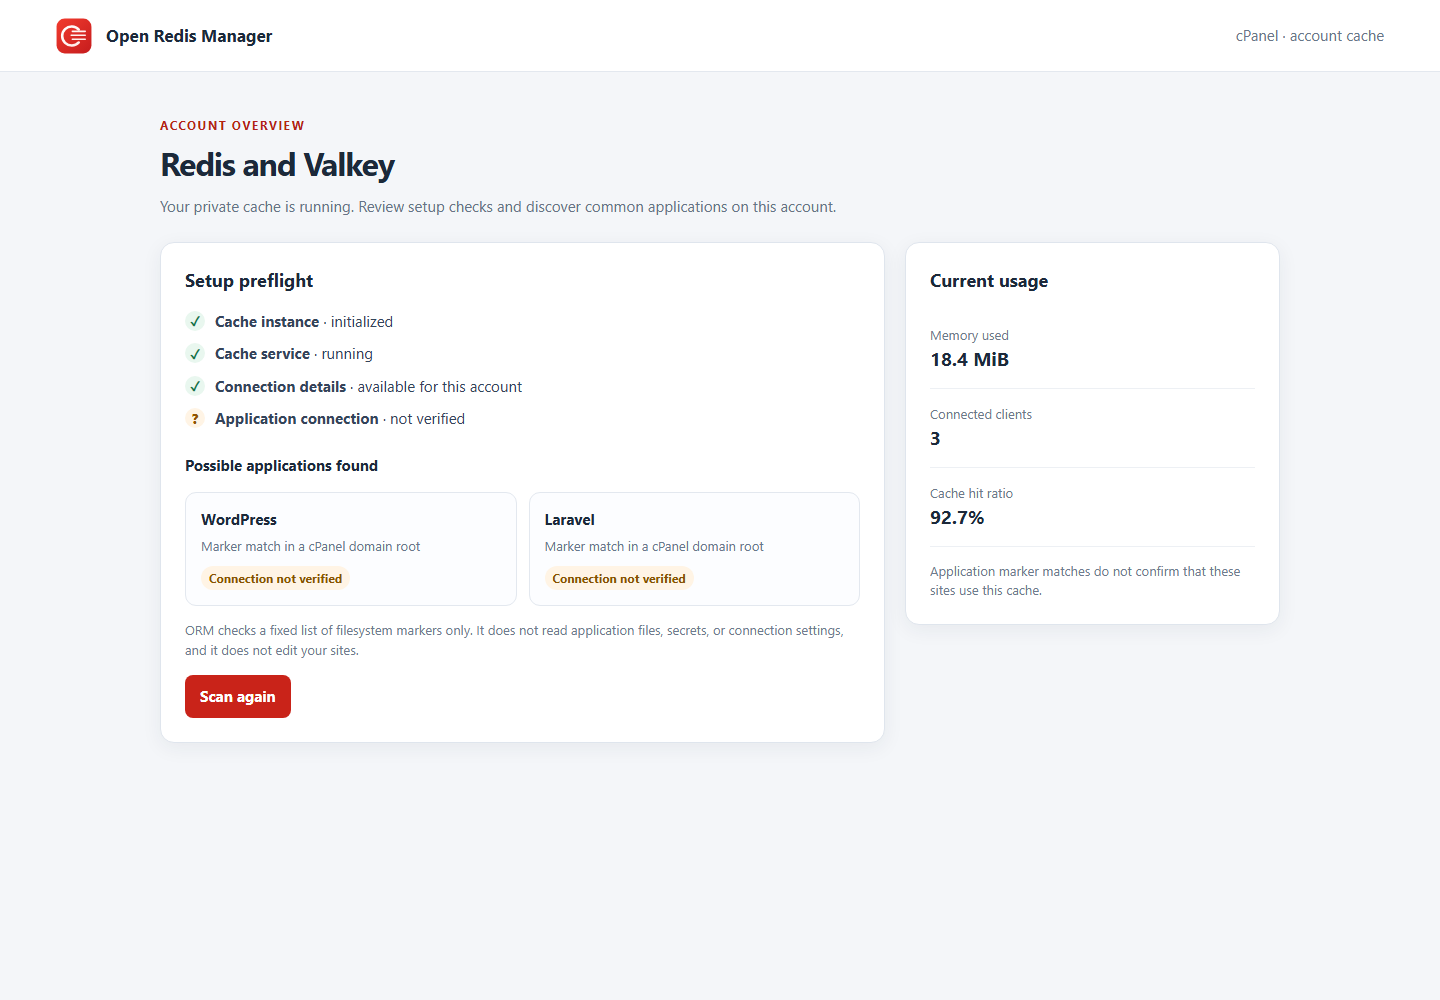
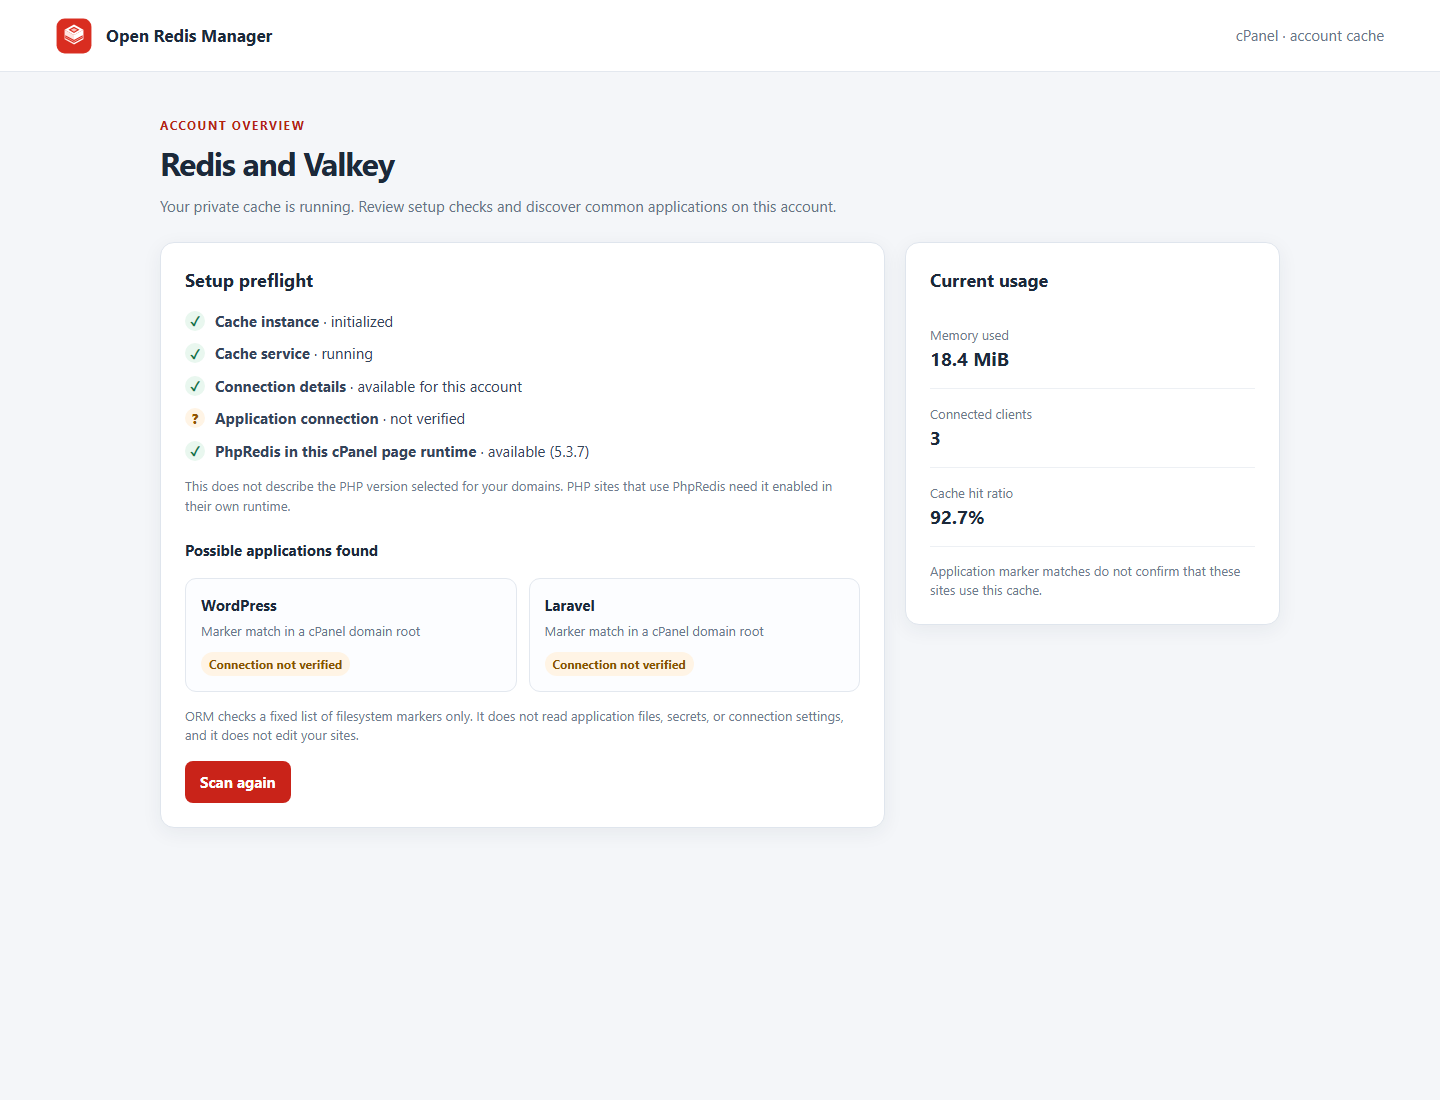
feat(cpanel): report PhpRedis runtime readiness (#204)

diff --git a/screenshots/previews/cpanel-application-discovery.html b/screenshots/previews/cpanel-application-discovery.html
@@ -44,7 +44,9 @@
           <li><span class="check">✓</span><span><strong>Cache service</strong> · running</span></li>
           <li><span class="check">✓</span><span><strong>Connection details</strong> · available for this account</span></li>
           <li><span class="check pending">?</span><span><strong>Application connection</strong> · not verified</span></li>
+          <li><span class="check">✓</span><span><strong>PhpRedis in this cPanel page runtime</strong> · available (5.3.7)</span></li>
         </ul>
+        <p class="note">This does not describe the PHP version selected for your domains. PHP sites that use PhpRedis need it enabled in their own runtime.</p>
         <h3>Possible applications found</h3>
         <div class="apps">
           <article class="app"><strong>WordPress</strong><span>Marker match in a cPanel domain root</span><b class="tag">Connection not verified</b></article>

diff --git a/packaging/cpanel/files/orm/index.live.php b/packaging/cpanel/files/orm/index.live.php
@@ -15,6 +15,11 @@ require_once '/usr/local/cpanel/3rdparty/orm/src/Orm/Security/SessionRequestGuar
 require_once '/usr/local/cpanel/3rdparty/orm/src/Orm/Backend/BackendDiscovery.php';
 
 $cpanel = new CPANEL();
+$phpRedisRuntimeAvailable = extension_loaded('redis') && class_exists('Redis', false);
+$phpRedisRuntimeVersion = $phpRedisRuntimeAvailable ? phpversion('redis') : false;
+$phpRedisRuntimeVersion = is_string($phpRedisRuntimeVersion)
+    && preg_match('/\A[0-9][A-Za-z0-9.+_-]{0,31}\z/', $phpRedisRuntimeVersion) === 1
+    ? $phpRedisRuntimeVersion : null;
 $account = \Orm\Cpanel\AuthenticatedAccountContext::fromLiveApi($cpanel);
 $brokerVerified = $account !== null
     && (new \Orm\Cpanel\BrokerIdentityVerifier())->verifies($account->username());
@@ -452,7 +457,9 @@ try {
                 } ?></li>
                 <li><strong>Connection details:</strong> <?= $connectionDetails !== null ? 'Available for this cPanel account.' : 'Available after the cache is initialized.' ?></li>
                 <li><strong>Application connection:</strong> Not verified. ORM does not read application configuration or test an application runtime.</li>
+                <li><strong>PhpRedis in this cPanel page runtime:</strong> <?= $phpRedisRuntimeAvailable ? 'Available' . ($phpRedisRuntimeVersion !== null ? ' · version ' . htmlspecialchars($phpRedisRuntimeVersion, ENT_QUOTES | ENT_SUBSTITUTE, 'UTF-8') : '') : 'Not detected.' ?></li>
               </ul>
+              <p class="orm-note">This checks only the PHP runtime serving this cPanel page. It does not report the PHP version or extensions selected for your domains. PHP sites that use PhpRedis need the extension enabled for their own selected runtime; Node.js and Python clients do not use PhpRedis. Ask your hosting administrator to enable it for a domain when needed.</p>
               <h4>Application discovery</h4>
               <p class="orm-note">On demand, ORM checks fixed marker paths in your cPanel domain roots. It does not read file contents, configuration, secrets, or change application files. Results identify possible applications only; they do not confirm an active Redis integration.</p>
               <p><a href="?orm_app_scan=run">Scan for common applications</a></p>

diff --git a/tests/fleet-ui.php b/tests/fleet-ui.php
@@ -85,6 +85,11 @@ $assert(str_contains($cpanel, 'Live usage') && str_contains($cpanel, 'memory_use
     && str_contains($cpanel, 'metrics_sampled_at') && str_contains($cpanel, 'not retained')
     && str_contains($cpanel, 'PodmanCacheDiscovery::currentAccountInventory'),
     'show ephemeral allowlisted live metrics separately for verified current-account Podman sockets');
+$assert(str_contains($cpanel, "extension_loaded('redis')")
+    && str_contains($cpanel, "class_exists('Redis', false)")
+    && str_contains($cpanel, 'PhpRedis in this cPanel page runtime')
+    && str_contains($cpanel, 'does not report the PHP version or extensions selected for your domains'),
+    'show truthful PhpRedis availability for only the cPanel page runtime and preserve domain-runtime uncertainty');
 $assert(str_contains($cpanel, 'ea-podman install <?= htmlspecialchars($packageInfo[\'package\']')
     && str_contains($cpanel, 'will not run a host package manager')
     && str_contains($cpanel, 'could not safely verify this account’s cPanel container inventory'),

diff --git a/docs/features/catalog.md b/docs/features/catalog.md
@@ -9,7 +9,7 @@ This catalog records the public product behavior observed on the reference site 
 | Status and lifecycle | Show online, stopped, degraded or unavailable state; initialize, start and stop only the current account instance. | Authenticated cPanel entry point supports backend-gated initialize, status, start and stop through the peer-credential broker, with live metrics and stale fallback. Automated broker and page tests exist. Live cPanel behavior remains unverified. Uses an account-private Unix socket. |
 | Connection details | Show the active endpoint, database and authentication mode; reveal or copy a secret only on explicit request. | The installed cPanel page shows ORM's private socket for an initialized direct-service instance, with copyable PhpRedis, WordPress/WooCommerce, LiteSpeed Cache, Laravel, Magento/Adobe Commerce, node-redis and redis-py helpers. It also detects current-account cPanel EA Podman Redis/Valkey sockets, performs a bounded read-only PING and INFO request, and shows current allowlisted memory, client, uptime, operations, and hit-ratio metrics without retaining them. Only fixed metric fields are parsed; keys and values are not requested. Podman caches remain managed by cPanel; ORM does not alter their containers or data. AUTH is off by default for ORM instances. Helpers use environment or paste placeholders and never contain secrets or edit application files. ORM-managed direct instances do not expose TCP. |
 | Deployment modes and first-run setup | Choose an ORM-managed native Redis/Valkey service or an account-owned cPanel EA Podman container, with missing prerequisites and supported install steps explained. | The authenticated cPanel first-run wizard checks standard native binary locations, preserves WHM's root-owned native backend selection, and checks a verified account-owned EA Podman inventory plus its fixed package list. It offers only cPanel Redis 6.2/Valkey 7.2 install commands in the account's own Terminal/SSH context; it never runs a host package manager, arbitrary image/package/command, or cross-account container action. Missing tool, unsupported host/shell, timeout, unknown inventory, and verified absence remain distinct. cPanel retains container package and data ownership. A root-owned scheduled sampler provides anonymous WHM aggregate coverage for these sockets; it does not manage their package configuration or data. The one-shot collector passed a live cPanel check for an existing Redis and temporary Valkey socket (2 discovered, sampled, and reachable); the recurring timer remains disabled and the result does not establish a supported host matrix. See the [EA Podman sampler record](../validation/records/2026-11-21-cpanel-ea-podman-metrics-sampler.md). |
-| Health and preflight | Explain whether an instance exists, is running and has authentication configured; link each warning to a remedy. | The installed cPanel page shows setup checks for initialization, service state and connection-detail availability plus the configured AUTH state when the broker responds. It calculates a transparent advisory score from the running state and current memory, client, and sufficiently sampled hit-ratio checks; unknown checks are excluded and shown in the coverage count. Stale/unavailable samples and non-running states have no numeric score. Application connection and client-extension availability remain unverified and unscored. |
+| Health and preflight | Explain whether an instance exists, is running and has authentication configured; link each warning to a remedy. | The installed cPanel page shows setup checks for initialization, service state and connection-detail availability plus the configured AUTH state when the broker responds. It reports whether PhpRedis is loaded in the PHP runtime serving the ORM cPanel page, and labels that separately from each domain's selected PHP runtime; missing site extensions and application connectivity remain unknown. It calculates a transparent advisory score from the running state and current memory, client, and sufficiently sampled hit-ratio checks; unknown checks are excluded and shown in the coverage count. Stale/unavailable samples and non-running states have no numeric score. Runtime readiness is informational and unscored. |
 | Metrics | Present memory, peak memory, connected clients, uptime, command rate and hit/miss ratio with a selectable time window. Mark stale samples. | The installed cPanel page shows bounded live/latest-known values plus hourly memory, client and hit-ratio charts with 24-hour and 7-day ranges. A per-account systemd timer collects only while the cache is running. New instances use their recorded 7–90 day provider retention; history remains root-owned `0600`, capped at 2,160 samples and 1 MiB. Legacy instances retain 30-day behavior; disposable-host validation remains open. |
 | Presets | Offer WordPress, Laravel, Magento, session cache and generic starting profiles. Validate every saved setting against provider ceilings. | Developer and Advanced exposure offer five fixed presets with server-defined memory values capped at 64 MiB. Simple exposure initializes the Generic profile. Package and reseller quotas are checked by the broker when provisioning. |
 | Advanced settings | Configure memory ceiling, eviction policy, database count, timeout, clients and persistence when provider exposure allows it. | Developer and Advanced exposure show memory (8–64 MiB), allowlisted eviction policy, clients (10–100), and idle timeout (0–300 seconds) through the account-bound broker. Database count and persistence remain host-controlled. Package memory ceilings are broker-enforced in enforce mode. |

diff --git a/docs/guides/health-guidance.md b/docs/guides/health-guidance.md
@@ -13,7 +13,7 @@ The cPanel page presents advisory findings from the authenticated account status
 
 The 85% and 50% values are ORM heuristics, not Redis/Valkey limits or vendor recommendations. They are deliberately described as review thresholds. The page suppresses metric findings when metrics are unavailable or marked stale; saved values remain visible in the metrics area with their sample timestamp. Too few lookups produce no hit-ratio finding.
 
-The page reports the service state and metric sample independently. It does not infer a successful application connection from an initialized/running cache, helper text, or a detected application marker. It does not currently detect disabled language extensions or score trends from hourly history.
+The page reports the service state and metric sample independently. It does not infer a successful application connection from an initialized/running cache, helper text, or a detected application marker. The setup preflight separately reports whether PhpRedis is loaded in the PHP runtime serving the cPanel ORM page. That check does not identify domain PHP handlers or confirm extensions for an application, and it does not score extension availability or trends from hourly history.
 
 ## Advisory health score
 
@@ -26,7 +26,7 @@ For a running instance with a fresh broker sample, the page shows an advisory sc
 
 The score is the percentage of passed checks among the checks that could be evaluated. The page also shows evidence coverage (the number of evaluated checks out of four). An insufficient hit sample, invalid/missing setting, or missing metric is unknown and is excluded from both the result and coverage; it is never silently treated as a pass. A number is shown only when at least three checks are verifiable. A stopped, changing, unconfigured, stale, or unavailable service state has no numeric score.
 
-`Strong signals` means 90–100, `Review suggested` means 70–89, and `Needs attention` means below 70. These labels describe only the listed checks. Uptime is shown as context and is not scored because a long process lifetime does not prove good cache behavior. AUTH remains optional for ORM's account-private Unix socket and is not treated as a health failure when disabled. Application connectivity, PHP extensions, trends, latency, and performance are not verified or scored. The score is a transparent heuristic, not a vendor health guarantee.
+`Strong signals` means 90–100, `Review suggested` means 70–89, and `Needs attention` means below 70. These labels describe only the listed checks. Uptime is shown as context and is not scored because a long process lifetime does not prove good cache behavior. AUTH remains optional for ORM's account-private Unix socket and is not treated as a health failure when disabled. Application connectivity, domain PHP extension state, trends, latency, and performance are not verified or scored. The score is a transparent heuristic, not a vendor health guarantee.
 
 ## Implementation and verification
 

diff --git a/screenshots/README.md b/screenshots/README.md
@@ -13,7 +13,7 @@ Images below include local previews, prototype captures, and explicitly labeled 
 | [cPanel Jupiter v3 icon preview](previews/cpanel-icons-v3-preview.png) | Local preview of the transparent red line-art group and launcher glyphs, including an enlarged detail. This is a package preview, not a live cPanel capture. | Source assets: [`orm-cpanel-group-v3.svg`](../packaging/cpanel/icons/orm-cpanel-group-v3.svg), [`orm-cpanel-feature-v3.svg`](../packaging/cpanel/icons/orm-cpanel-feature-v3.svg), and matching PNG fallbacks. |
 | [cPanel Jupiter generated-sprite preview](previews/cpanel-jupiter-live-sprite-preview.png) | Local rendering of the cPanel test server's generated group and launcher sprite entries after cache-key synchronization; no account or service data is shown. This is not a browser screenshot. | Source: generated cPanel Jupiter sprite, rendered from the two icon viewBoxes. |
 | [cPanel dashboard](cpanel-dashboard.png) | Account status, usage, setup checklist and trend | 1500 × 1200 |
-| [cPanel application discovery](cpanel-application-discovery.png) | On-demand app marker results and honest connection preflight | Static sample-data preview; [HTML source](previews/cpanel-application-discovery.html) |
+| [cPanel application discovery](cpanel-application-discovery.png) | On-demand app marker results, current-page PhpRedis availability, and honest connection preflight | Static sample-data preview; it does not represent each domain PHP runtime. [HTML source](previews/cpanel-application-discovery.html) |
 | [cPanel exposure tiers](cpanel-exposure-tiers.png) | Simple, Developer and Advanced feature visibility with the same account boundary | Static comparison preview; [HTML source](previews/cpanel-exposure-tiers.html) |
 | [cPanel setup presets](cpanel-presets.png) | Initial cache setup with five account-safe workload profiles | 1440 × 1000 |
 | [cPanel configuration](cpanel-configuration.png) | Bounded memory, eviction, client and timeout controls with a cache eviction warning | 1440 × 1100 |

diff --git a/docs/guides/monitoring-diagnostics.md b/docs/guides/monitoring-diagnostics.md
@@ -10,7 +10,7 @@ A separate per-account `orm-metrics-collect@<account>.timer` invokes the fixed c
 
 The cPanel page calculates a first-pass advisory score from four equal checks: verified running state, memory below 85% of the configured ceiling, connected clients below 85% of their configured limit, and a cumulative cache hit ratio of at least 50% after 100 lookups. It requires fresh current metrics and at least three verifiable checks before showing a number. The displayed coverage explains when a check is unknown; unknowns are excluded rather than treated as passes. The score links to the same individual findings and recommendations described in [health guidance](health-guidance.md).
 
-Uptime and optional AUTH status remain visible context, not scored signals: uptime is not proof of service health, and AUTH is optional for the account-private Unix socket. Application connectivity, installed PHP extensions, latency and trends are not tested. The score is a heuristic and not an availability or performance guarantee. Deeper trend-based health scoring remains on the roadmap.
+Uptime and optional AUTH status remain visible context, not scored signals: uptime is not proof of service health, and AUTH is optional for the account-private Unix socket. The setup preflight reports PhpRedis only for the PHP runtime serving the ORM cPanel page; it does not confirm extensions for domain PHP handlers or test application connectivity. Latency and trends are not tested. The score is a heuristic and not an availability or performance guarantee. Deeper trend-based health scoring remains on the roadmap.
 
 ## Application preflight
 

diff --git a/docs/features/screenshot-map.md b/docs/features/screenshot-map.md
@@ -18,7 +18,7 @@ The public gallery has three cPanel and nine WHM screenshots. Its cards open an 
 | WHM security | Firewall guidance, local binding and credential rotation. |
 | WHM package and reseller policy | Root-only package service availability, memory/retention ceilings, report/warn/enforce mode, exposure tier, reseller usage and quota controls. |
 | cPanel exposure tiers | Side-by-side Simple, Developer and Advanced visibility previews; broker authorization remains unchanged. |
-| [ORM application preflight](../../screenshots/cpanel-application-discovery.png) | Sample-data cPanel view of service setup checks and possible application matches; connection state is clearly unverified. |
+| [ORM application preflight](../../screenshots/cpanel-application-discovery.png) | Sample-data cPanel view of service setup checks, current-page PhpRedis availability, and possible application matches; domain runtime and connection state remain unverified. |
 | [cPanel EA Podman live metrics](../../screenshots/cpanel-podman-live-metrics.png) | Synthetic account-owned Redis container view with ephemeral allowlisted memory, client, uptime, operation-rate, and cache-hit values. |
 | [WHM branding](../../screenshots/whm-provider-branding.png) | Provider identity, four honestly labelled theme colors, brand palettes, and a synthetic cPanel preview. |
 | [ORM fleet inventory](../../screenshots/whm-fleet.png) | Synthetic root-only account table with service controls and per-account snapshot/restore UI. |

diff --git a/docs/release-notes.md b/docs/release-notes.md
@@ -17,6 +17,8 @@ These notes distinguish repository implementation from deployment readiness. A f
 
 - WHM security reports now support separate root-owned, report-only thresholds for eviction deltas, average operations per second, and optional authentication-failure deltas. All thresholds default to disabled; a threshold only changes finding severity. Automated enforcement remains unimplemented. See the [threshold guide](guides/security-report-thresholds.md).
 
+- cPanel setup preflight now reports whether PhpRedis is loaded in the PHP runtime serving the ORM page, with a version when available. It warns that domain PHP handlers may differ, suggests enabling the extension only for PHP applications that need it, and does not claim application connectivity. See [issue #203](https://github.com/aivanov2-godaddy/open-redis-manager/issues/203) and the refreshed [application preflight screenshot](../screenshots/cpanel-application-discovery.png).
+
 - Standalone sample-data PHP prototype for reviewing layout and workflows; it does not connect to Redis.
 - Application guides and copyable connection examples; ORM does not edit application files or establish client compatibility for a specific host.
 - Broker-backed Redis/Valkey per-account provisioning, status, bounded configuration, lifecycle controls, metrics, and hourly history.

diff --git a/project/issues/20-cpanel-phpredis-runtime-readiness.md b/project/issues/20-cpanel-phpredis-runtime-readiness.md
@@ -1,0 +1,21 @@
+# Show PhpRedis readiness for the cPanel runtime
+
+**Milestone:** 0.2.0 — Operations and lifecycle completeness
+**Status:** implementation in review
+
+## Goal
+
+Help cPanel users see whether the PHP runtime serving ORM currently has PhpRedis, and explain how this relates to their sites' selected PHP runtimes.
+
+## Acceptance criteria
+
+- Detect `extension_loaded('redis')` and a non-autoloaded `Redis` class in the current cPanel request runtime.
+- Show the extension version when available, or say it is not detected in this runtime.
+- Never claim the result describes each domain's PHP handler or proves application connectivity.
+- Tell users that PHP sites using PhpRedis need the extension in their own selected runtime; non-PHP clients do not depend on it.
+- Do not inspect application config, execute package commands, or change PHP selection/extensions.
+- Add docs, automated UI assertions and a synthetic screenshot.
+
+## Validation limits
+
+Automated checks verify the interface claims and escaping. A source-matched cPanel browser check is still needed to verify how the extension appears across cPanel PHP runtimes and domain handlers.

diff --git a/project/README.md b/project/README.md
@@ -53,3 +53,4 @@ Open a feature branch and pull request for each coherent implementation incremen
 - [#161 — Validate selectable WHM diagnostics on disposable cPanel](https://github.com/aivanov2-godaddy/open-redis-manager/issues/161) ([draft](issues/17-whm-diagnostics-live-validation.md))
 - [#197 — Add a cPanel first-run native vs EA Podman setup wizard](https://github.com/aivanov2-godaddy/open-redis-manager/issues/197) ([draft](issues/18-cpanel-backend-onboarding.md))
 - [#201 — Add live account-scoped usage metrics for cPanel EA Podman caches](https://github.com/aivanov2-godaddy/open-redis-manager/issues/201) ([draft](issues/19-cpanel-podman-live-metrics.md))
+- [#203 — Show PhpRedis readiness for the cPanel runtime](https://github.com/aivanov2-godaddy/open-redis-manager/issues/203) ([draft](issues/20-cpanel-phpredis-runtime-readiness.md))

diff --git a/docs/integrations.md b/docs/integrations.md
@@ -4,6 +4,8 @@ The reference product documents a broad range of application clients. The authen
 
 Step-by-step connection examples are collected in the [application guides](guides/applications/README.md). They use placeholders and describe integration steps; they do not configure customer applications.
 
+The cPanel preflight reports whether PhpRedis is loaded in the PHP runtime serving the ORM page. It cannot identify the PHP version or extension set selected by each domain, and it does not test application connectivity. Enable PhpRedis in a domain's own runtime only when the selected PHP client requires it; Node.js and Python clients do not use this extension.
+
 | Integration | Use case | Guide and helper |
 |---|---|---|
 | WordPress | Persistent object cache | [Object-cache setup](guides/applications/wordpress.md) |
